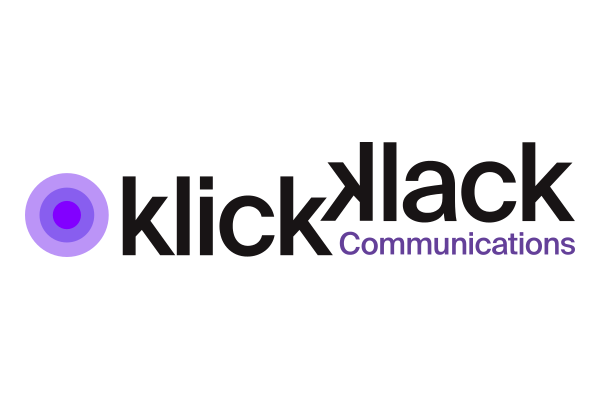
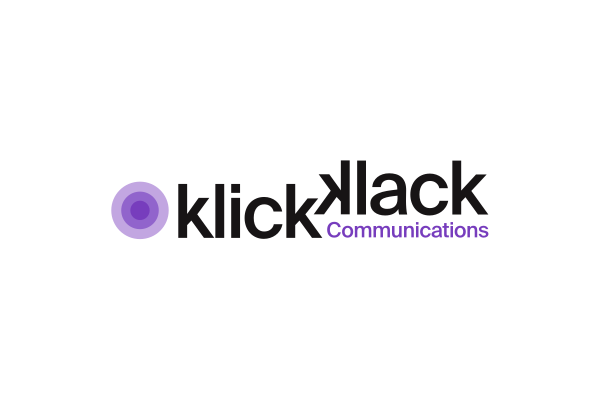
Update sponsorData.ts with new sponsor information

Changed region(s): [[0.03, 0.33, 0.96, 0.66]]

diff --git a/app/(website)/sponsor/sponsorData.ts b/app/(website)/sponsor/sponsorData.ts
@@ -54,6 +54,13 @@ export default {
             "50多年來，AMD（NASDAQ：AMD）推動創新高效能運算、繪圖及視覺技術，建構遊戲、高臨場感平台與資料中心等重要領域。全球數十億的消費者、世界500強企業以及尖端科學研究機構皆仰賴AMD的技術來改善生活、工作及娛樂。AMD員工致力於研發領先的高效能與自行調適產品，不斷突破技術的極限。",
           url: "https://www.amd.com/zh-hant",
         },
+        {
+          title: "可立可 KlickKlack Communications",
+          image: "klickklack.png",
+          description:
+            "可立可服務涵蓋：連結Connectivity、協作Collaboration、合規Compliance三大面向，以兼具韌性與彈性的服務賦能企業，協助企業隨著規模擴大而成長，運用新世代的科技工具和管理模式來減輕企業的負擔，使企業不僅可以實現數位轉型，還可達到資安合規的目標，並享受前所未有的服務體驗。",
+          url: "https://kkco.com.tw",
+        },
       ],
     },
     {
@@ -96,6 +103,13 @@ export default {
         //      "Panasonic 致力於通過開發多元化的物聯網（IoT）產品，來讓人們的生活變得更美好。我們非常關注產品網路安全和客戶隱私，因此在日本總部不僅設立了 Product Security Center (PSC) 和 Product Security Incident Response Team (PSIRT)，還在台灣成立了 Panasonic Cyber Security Lab (PCSL)。PSC 和 PCSL 與全球各個業務集團合作，執行了需多的產品安全專案。這些專案包括對 IoT 產品網路威脅的深入研究、滲透測試、產品網路安全的事件響應，以及培養集團的網路安全人才。我們的目標是不斷增強和保護 Panasonic 產品的網路安全，確保我們的客戶獲得方便、安全的體驗。我們熱切歡迎有前瞻性的企業和優秀的個人加入我們的旅程，一同提升產品安全。如果您有合作意願，請隨時聯絡我們，Email 地址是 panasonic.pcsl@gmail.com。讓我們共同創建一個更安全、更緊密聯繫的世界！",
         //    url: "https://sitcon.org",
         //  },
+        // {
+        //   title: "趨勢科技",
+        //   image: "trendmicro.png",
+        //   description:
+        //     "趨勢科技為資訊安全解提供決方案全球領導廠商，致力建立一個安全的資訊交換世界。為資料中心、雲端工作負載、網路、端點裝置提供多層式安全防護。",
+        //   url: "https://careers.trendmicro.tw",
+        // },
       ],
     },
     {
@@ -121,6 +135,30 @@ export default {
           description: "",
           urls: [],
         },
+        // {
+        //   title: "五之神",
+        //   image: "",
+        //   description: "",
+        //   urls: [],
+        // },
+        // {
+        //   title: "資策會",
+        //   image: "",
+        //   description: "",
+        //   urls: [],
+        // },
+        // {
+        //   title: "祐生研究基金會",
+        //   image: "archilife.png",
+        //   description: "",
+        //   urls: [],
+        // },
+        // {
+        //   title: "COSCUP",
+        //   image: "coscup.png",
+        //   description: "",
+        //   urls: [],
+        // },
       ],
     },
   ],
